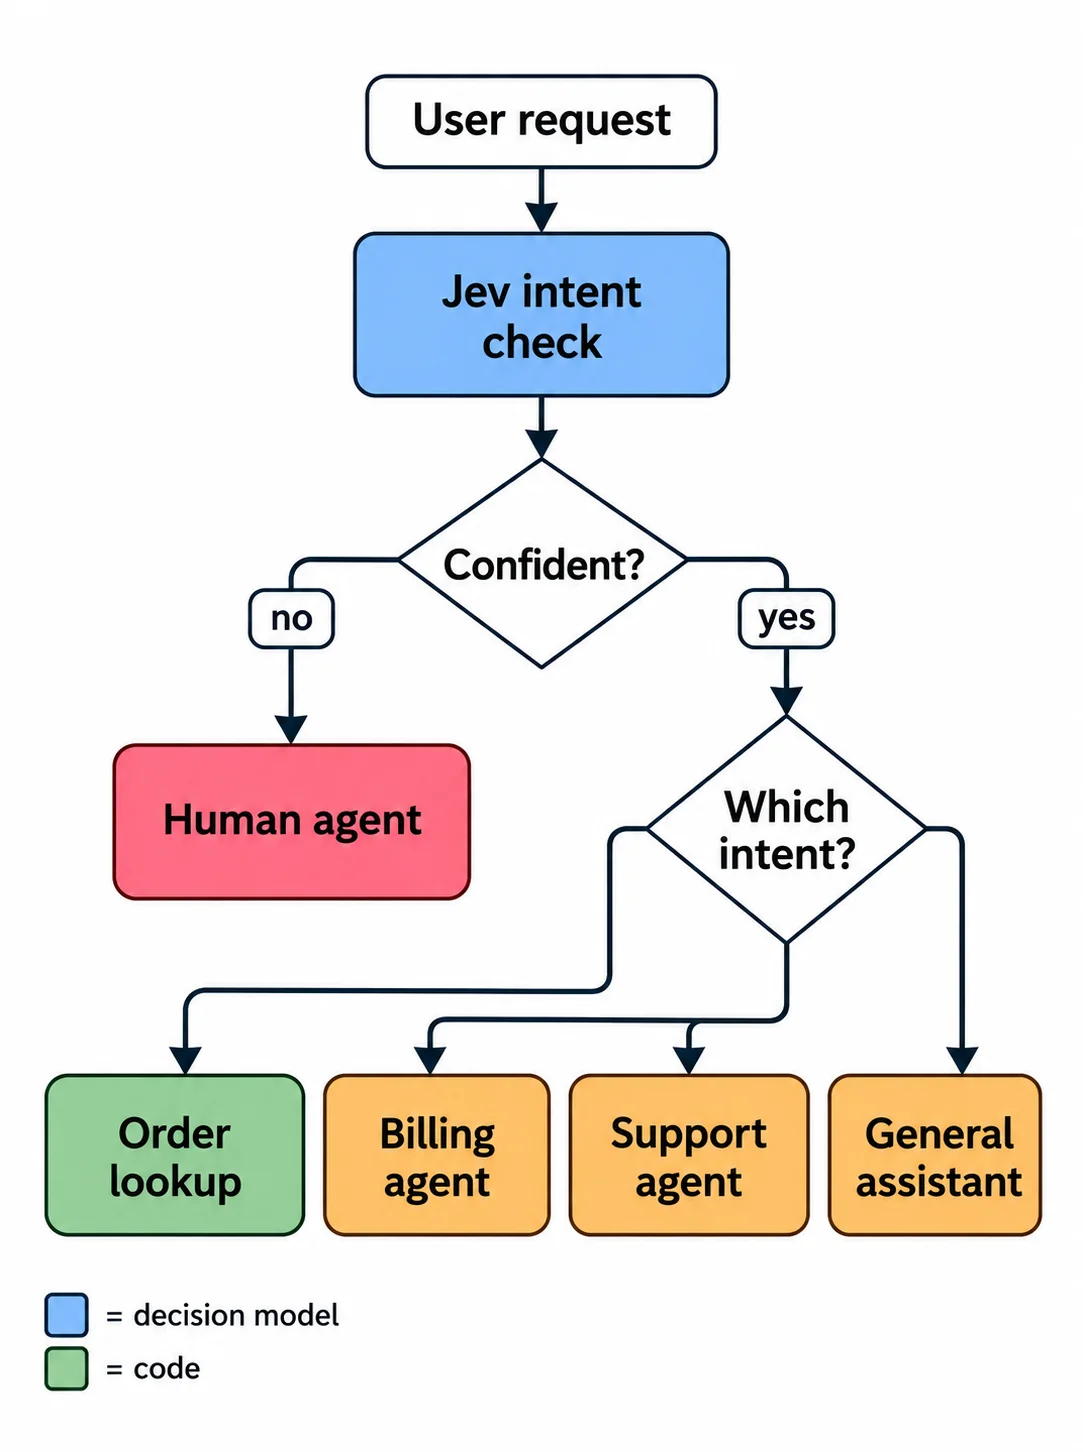
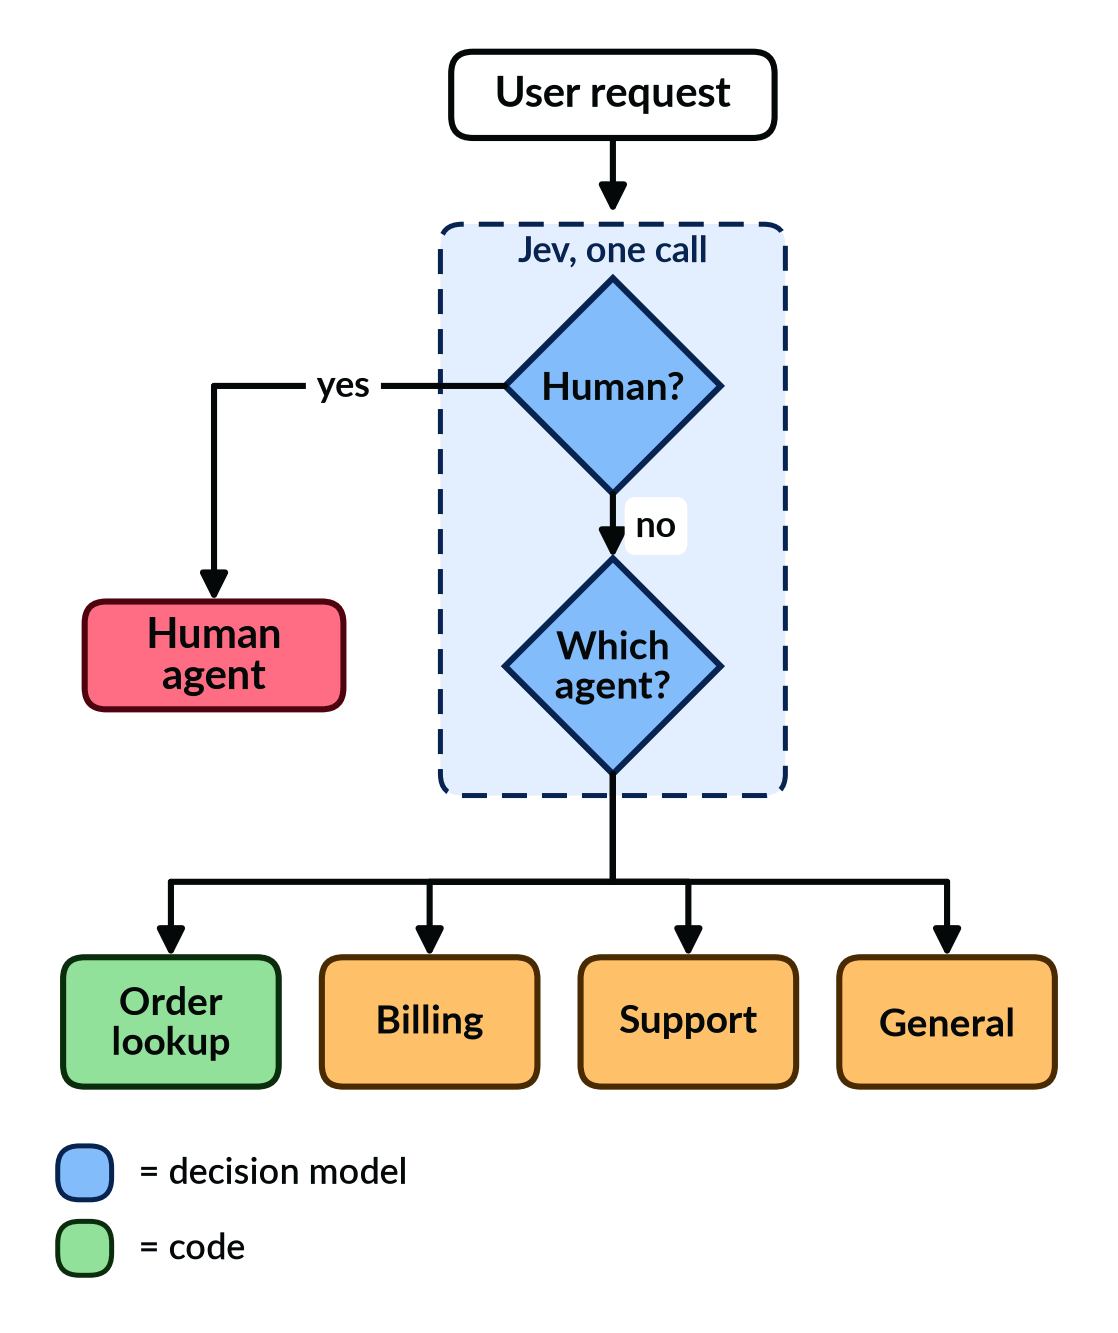
Addressing comments, moved date

diff --git a/_posts/2026-11-20-jev-is-all-you-need-the-advent-of-decision-models.md b/_posts/2026-11-20-jev-is-all-you-need-the-advent-of-decision-models.md
@@ -1,6 +1,6 @@
 ---
-title: Jev Is All You Need?
-date: 2026-11-11 07:00:00 Z
+title: Jev Is All You Need? The Advent of Decision Models
+date: 2026-11-20 07:00:00 Z
 categories:
 - Artificial Intelligence
 tags:
@@ -9,24 +9,24 @@ tags:
 - Decision Models
 - Jev
 - Doom
-summary: TypeSafe AI's Jev produces decisions rather than tokens, and it has spawned a whole new class of 'decision models'. I look at what makes it different and show some practical use cases, as well as one more doomonstrative.
+summary: TypeSafe AI's Jev produces decisions rather than tokens, and it has spawned a whole new class of 'decision models'. I look at what makes it different and show some practical use cases, as well as one more 'doomonstrative'.
 author: jstrong
 image: "/jstrong/assets/jev-is-all-you-need/doom_4_jevs.webp"
 ---
 
-Since the [introduction of Jev](https://typesafe.ai/blog/introducing-system-one-models-and-jev) on the 15th of September, there has been boundless discussion and experimentation on its capabilities and potential use cases. I've been following the discourse since the start. Here, I'll look at what Jev is, whether it is just a case of good marketing, and whether it is the start of a new paradigm.
+Since the [introduction of Jev](https://typesafe.ai/blog/introducing-system-one-models-and-jev) on the 15th of September, there has been boundless discussion and experimentation on its capabilities and potential use cases. I've been following the discourse since the start. Here, I'll look at what Jev is, whether it is just a case of good marketing, whether it is the start of a new paradigm of 'decision models', and how well it does in a Doom deathmatch.
 
 ## What is Jev?
 
-First thing to say: it's not an LLM. In fact, Jev does not output words (tokens) at all (though you can [make it chat](https://github.com/kyle-pena-nlp/jevchat/), if you really want). Instead, Jev outputs _decisions_ in a few forms:
+First thing to say: it's not an LLM, but a decision model. In fact, Jev does not output words (tokens) at all (though you can [make it chat](https://github.com/kyle-pena-nlp/jevchat/), if you really want). Instead, Jev outputs _decisions_ in a few forms:
 
 - A Yes or a No (Noul)
 - A choice from a fixed set of options
 - A score, e.g. 1-5, Small-Medium-Large, a list of options with an ordering
 
-Alongside these decisions, Jev directly outputs a probability for each. For a Noul, it's a probability of an affirmative answer. For a set of options, each choice gets a probability, all summing to 1 - this goes for score also. An extra value is also bundled alongside each decision - confidence (except Noul). The confidence value is not produced by the model itself, but is instead provided in the API response as a calculation based on the number of options and the probability values from the model - generally how spread out the probabilities are. Confidence tells you how certain the model is of its decisions.
+Alongside these decisions, Jev directly outputs a probability for each. For a Noul, it's a probability of an affirmative answer. For a set of options, each choice gets a probability, all summing to 1 - this goes for score also. An extra value is also bundled alongside each decision - confidence (except Noul). The confidence value is not produced by the model itself, but is instead provided in the API response as a calculation based on the number of options and the probability values from the model - generally how spread out the probabilities are. As it is calculated from the model's own probabilities, confidence tells you how certain the model is of its decisions.
 
-The creators of Jev, [TypeSafe AI](https://typesafe.ai/), describe this as being an example of 'System One' thinking - that is, thinking that is fast and needs no effortful reasoning (the latter constitutes 'System Two' thinking which recent LLMs have been [getting better and better at](https://openai.com/index/navier-stokes-solution/)).
+The creators of Jev, [TypeSafe AI](https://typesafe.ai/), describe this as being an example of 'System One' thinking - that is, thinking that is fast and needs no effortful reasoning. Effortful reasoning is 'System Two' (which recent LLMs have been [getting better and better at](https://openai.com/index/navier-stokes-solution/)). Both terms were [made popular by psychologist Daniel Kahneman](https://en.wikipedia.org/wiki/Thinking,_Fast_and_Slow).  
 
 Whilst LLMs are able to solve longstanding problems in mathematics, are they not overkill for the 'smart if statement' which many applications desire? That question is the premise behind Jev, and part of why many people are so excited about its arrival.
 
@@ -55,7 +55,7 @@ I think this combination of being different, and being general, is what has allo
 With the release of Jev has come an influx of similar solutions, generally termed 'decision models'. Here are but a few:
 
 - [**SemIf**](https://openjev.com/): Formerly OpenJev, and standing for Semantic If, this was an early open-source Jev-like. This approach uses an open-weights LLM at its core but does not output token-by-token as usual. Instead, it normalises across the subset of the logits pertinent to your chosen options to produce probabilities (these probabilities are not synonymous with the calibrated confidence values output by Jev).
-- [**Laya**](https://laya.convaiinnovations.com/): I first came across what would be Laya a couple of days after the Jev announcement, [on the LocalLLaMA subreddit](https://www.reddit.com/r/LocalLLaMA/comments/1wijo3e/i_literally_built_the_jev_architecture_one_year/). The post boiled down to claiming that TypeSafe AI had stolen the thunder from an idea they had a year ago, and lamenting the lack of support for individual contributors. A couple more days later, Laya arrived and was nigh immediately lauded as _the_ open-source Jev competitor. Laya has the same three primitives (choice, score, noul) and performs well in benchmarks compared directly to Jev. There is one big caveat: Laya is a base to build on top of and does not work 'zero-shot' (without any modification) on a wide variety of tasks (unless you want a model to do no better than random). It needs fine-tuning on a particular domain to compete with Jev.
+- [**Laya**](https://laya.convaiinnovations.com/): I first came across what would be Laya a couple of days after the Jev announcement, [on the LocalLLaMA subreddit](https://www.reddit.com/r/LocalLLaMA/comments/1wijo3e/i_literally_built_the_jev_architecture_one_year/). The post boiled down to claiming that TypeSafe AI had stolen the thunder from an idea they had a year ago, and lamenting the lack of support for individual contributors. A couple more days later, Laya arrived and was nigh immediately lauded as _the_ open-source Jev competitor. Laya has the same three primitives (choice, score, Noul) and performs well in benchmarks compared directly to Jev. There is one big caveat: Laya is a base to build on top of and does not work 'zero-shot' (without any modification) on a wide variety of tasks (unless you want a model to do no better than random). It needs fine-tuning on a particular domain to compete with Jev.
 - [**OpenAI Decisions API**](https://developers.openai.com/api/docs/guides/decisions): Announced on the 29th of September at the 2026 OpenAI DevDay, this appears to be a direct response by a frontier lab to the popularity of Jev. Sam Altman described it as being an "exciting speed update", which could answer in "a fraction of a second". He also detailed that it is a GPT Luna model with "a pre-defined set of options" to choose from - and that it is that limited choice which allows it to be "extremely fast".
 - [**Cloudflare Clef**](https://blog.cloudflare.com/clef-decision-models/): Based on open-weights Qwen models, Cloudflare's entry into the fray was announced on the 1st of October. Clef and Clef-flash are based on Qwen3.8-27B and Qwen3.5-9B respectively and are free to download [from Hugging Face](https://huggingface.co/Cloudflare/clef).
 - [**Microsoft-Decision-1**](https://commandline.microsoft.com/microsoft-decision-1-model-foundry/): Microsoft has also joined in with its excitingly titled model. It's a post-train of Qwen3.5-9B, like Clef-flash, and does well on many benchmarks concerning both response quality and latency.
@@ -101,7 +101,7 @@ Notice that the above code does not just give a category for the email, it also 
 
 ### Agent Routing
 
-Routing can supercharge an agent/harness by choosing the right model for the right moment. However, until now, the router has usually been another LLM indicating which agent is best-suited to a task - such limited categorisation was never the forte of LLMs, and nor should such a limited choice between a handful of options take multiple seconds to complete. The dedicated `choice` primitive and its fast output (without going back and forth 'wait what about this, but wait!') make Jev well-suited for this task.
+Routing can supercharge an agent/harness by choosing the right model for the right moment. However, until now, the router has usually been another LLM indicating which agent is best-suited to a task - such limited categorisation was never the forte of LLMs, and nor should such a limited choice between a handful of options take multiple seconds to complete. Jev is well-suited to this task: a single, fast (no going back and forth 'wait what about this, but wait!') call can ask whether human intervention is necessary (Noul) and which agent should take over (choice).
 
 ![Example diagram showcasing possible workflow for agent delegation using Jev.]({{site.baseurl}}/jstrong/assets/jev-is-all-you-need/agent_router_diagram.webp)
 
